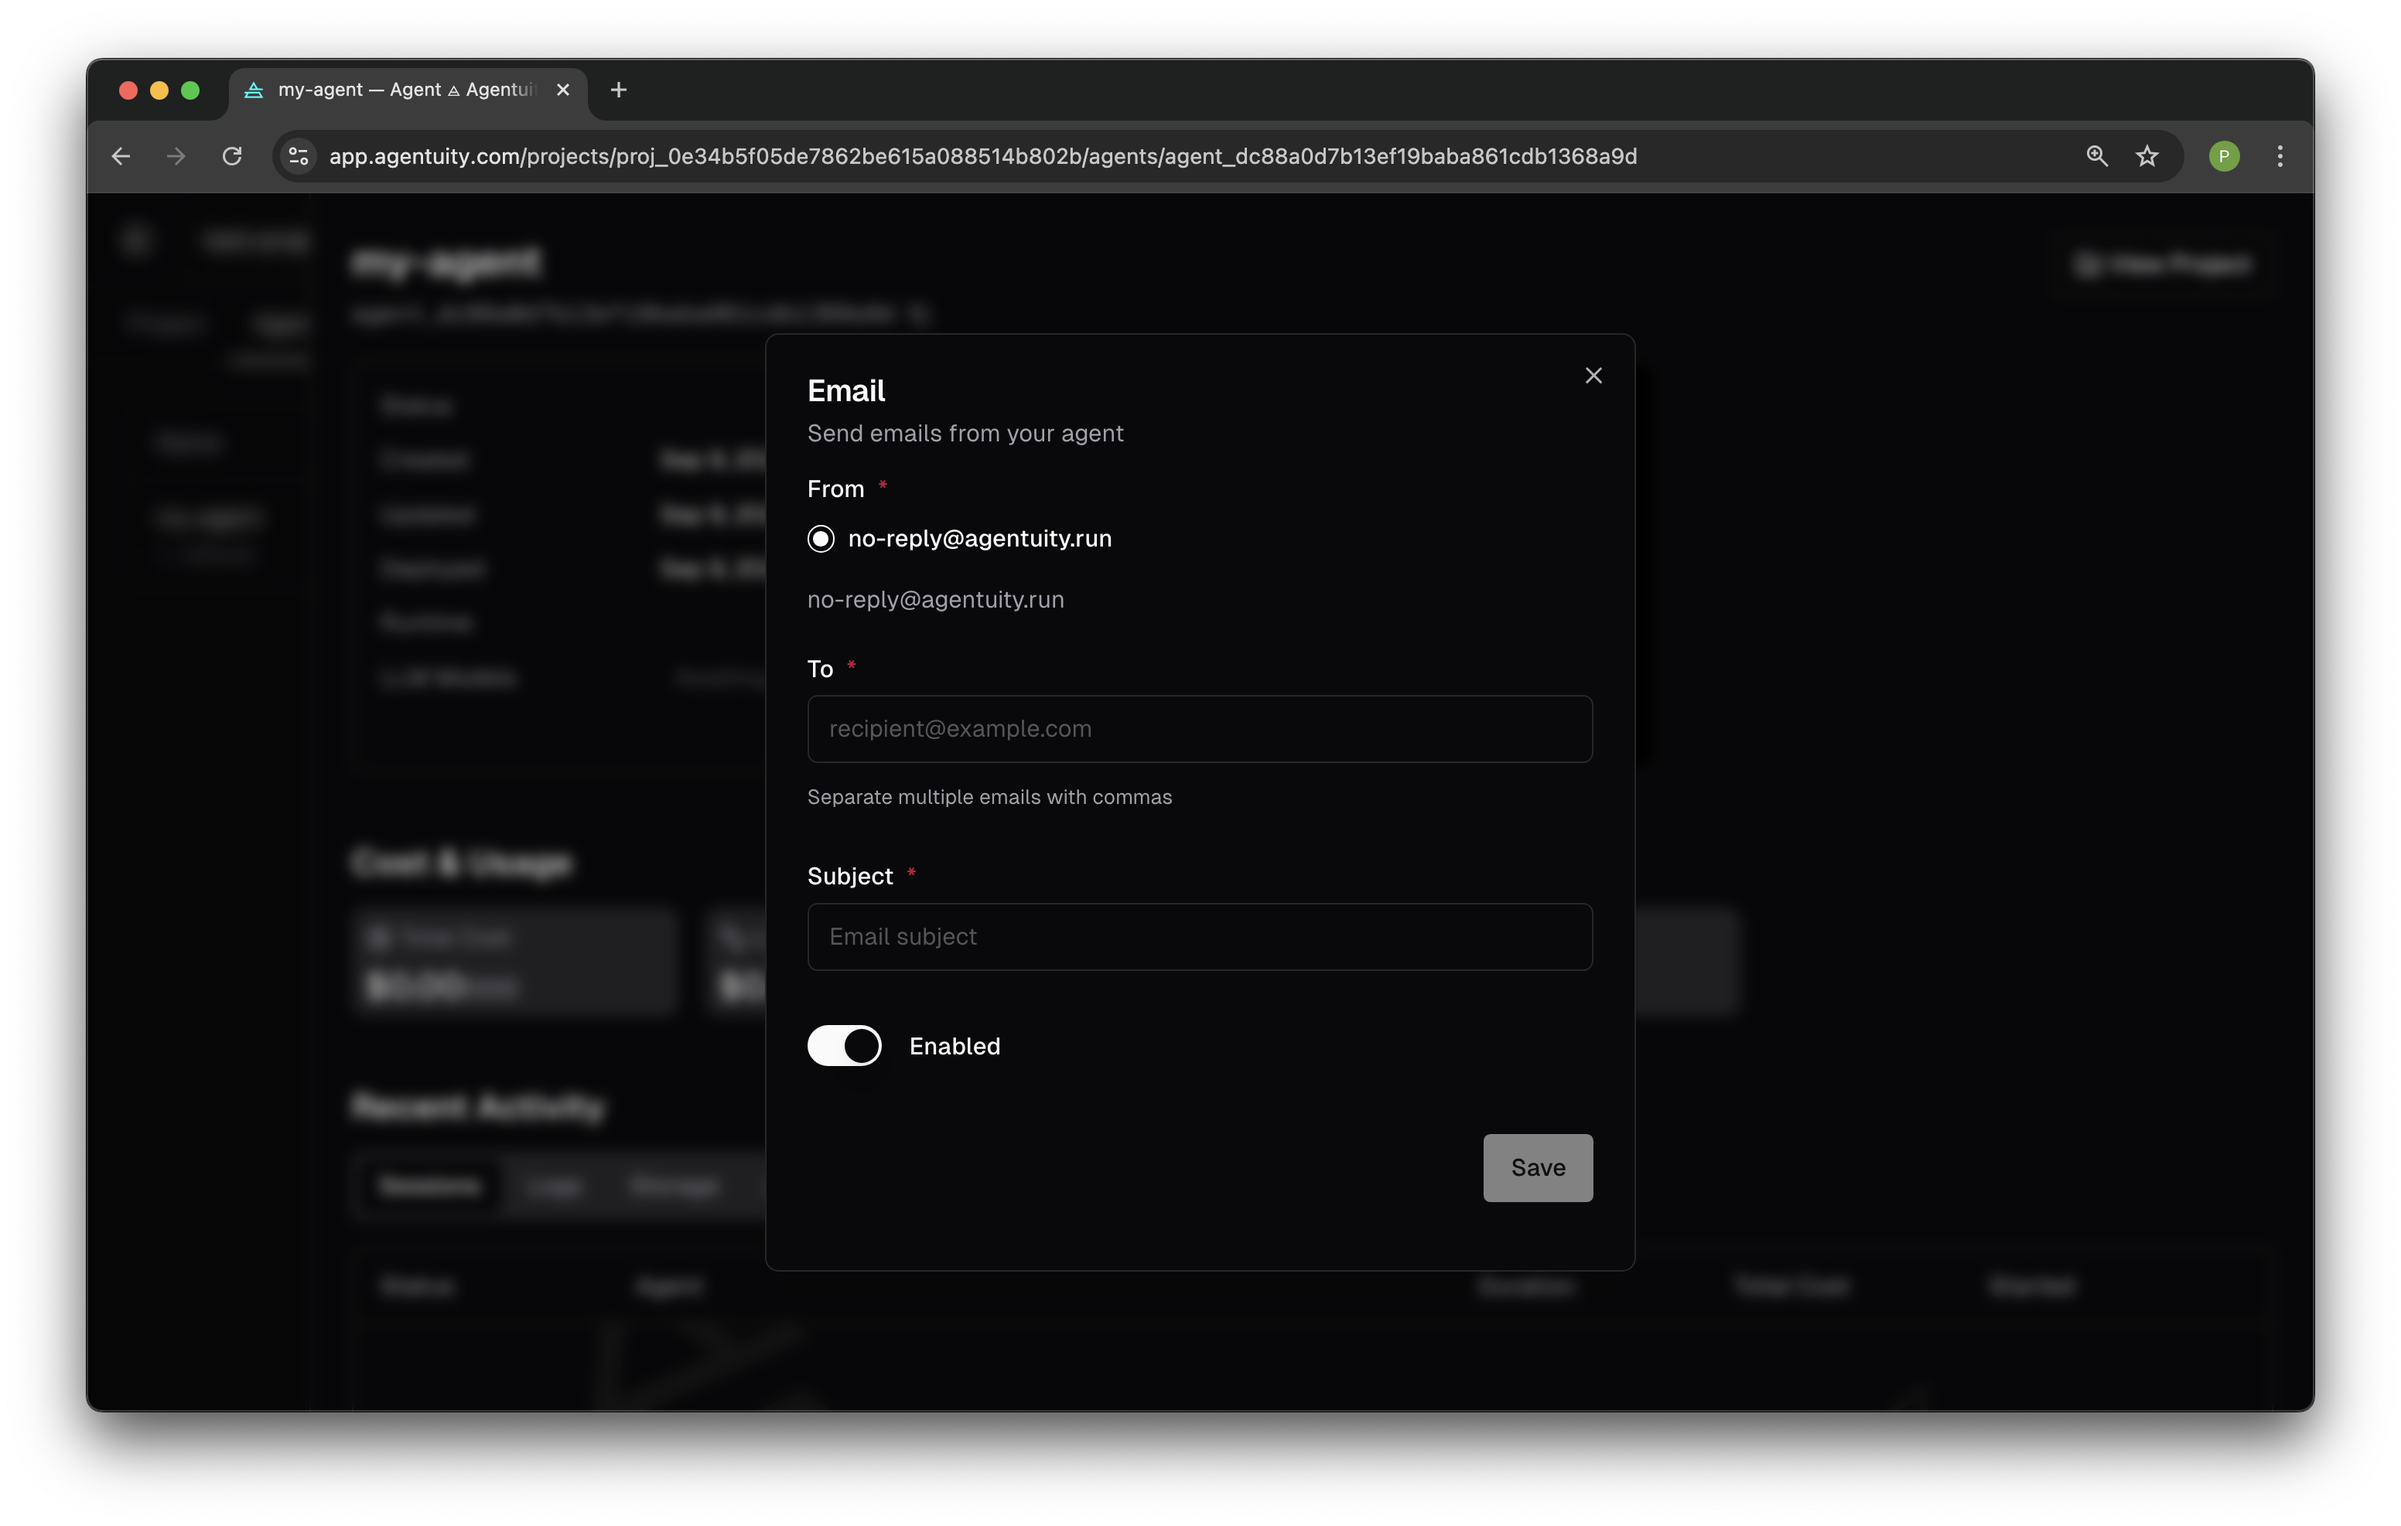
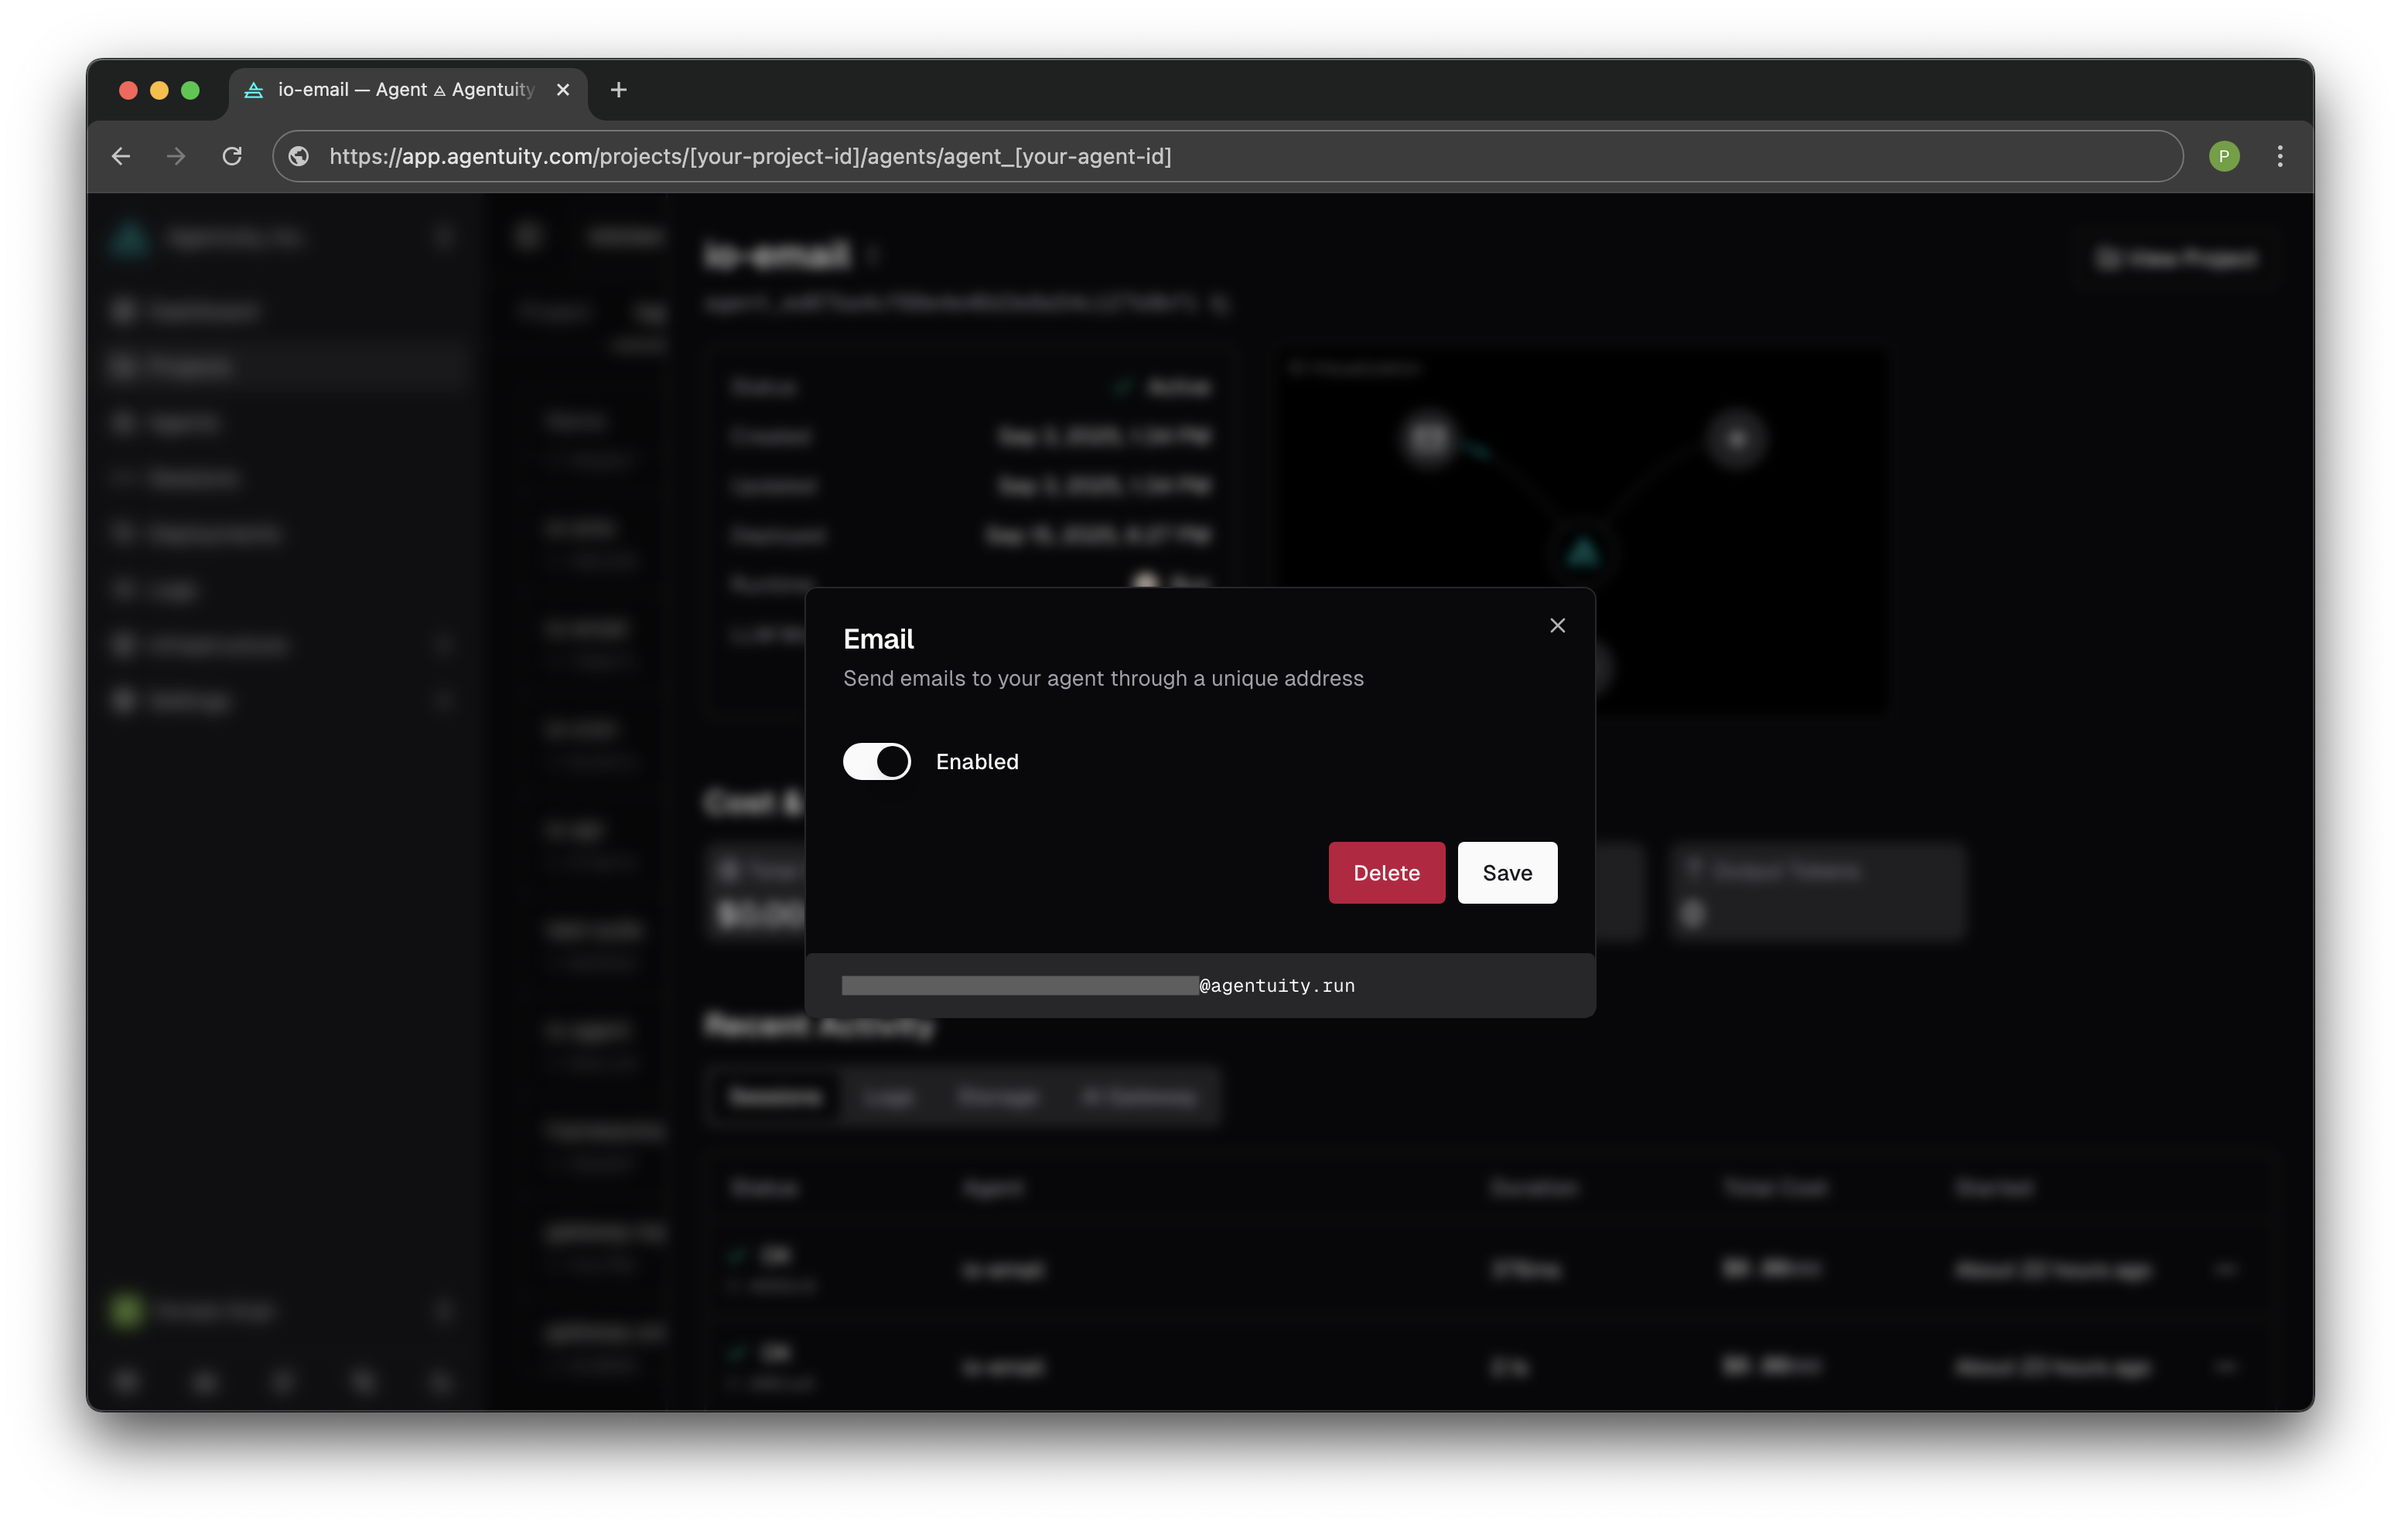
Update READMEs and screenshots

diff --git a/src/agents/io-email/README.md b/src/agents/io-email/README.md
@@ -1,60 +1,25 @@
 # Email Configuration
 
-Agents in Agentuity can receive and send emails. This example demonstrates outbound email functionality.
+Agents in Agentuity can receive and send emails. This example demonstrates inbound email functionality.
 
 ## Setup Instructions
 
-1. **Configure Email Recipients**
-   
-   In the Agentuity web console, navigate to your agent's IO settings (outbound side) and click on Email:
-   
+1. **Configure Email IO in Agentuity**
+
+   In the Agentuity web console, navigate to your agent's IO settings (inbound side) and click on Email:
+
    ![Agentuity Email configuration dialog](/.github/io-email/email-setup-1-config.png)
-   
-   Add one or more recipient email addresses in the "To" field. Separate multiple addresses with commas.
-   
-   > **Note:** Recipients and subject lines are currently configured through the Agentuity web console only, not via code.
 
-2. **Choose a Sender Address**
-   
-   You can send emails to multiple recipients simultaneously once connected.
-   
-   By default, emails are sent from `no-reply@agentuity.run`. This works immediately without any additional setup.
+   Once enabled, your agent receives a unique email address (based on its agent ID) that you can use to test this example.
 
-3. **Optional: Agent-Specific Sender Address**
-   
-   To use an agent-specific sender address, enable inbound email for your agent:
-   
-   ![Inbound email configuration showing unique agent address](/.github/io-email/email-setup-2-inbound.png)
-   
-   Once enabled, your agent receives a unique email address (based on its unique agent ID) that can also be used as the sender address for outbound emails:
+2. **Deploy The Project**
 
-   ![Outbound email configuration with a unique agent address](/.github/io-email/email-setup-3-agent-email.png)
+   Deploy the Kitchen Sink project to enable email functionality:
 
-4. **Test the Integration**
-   
-   Use the pre-set commands to test email sending:
-   - **Send Basic Email**: Tests plain text email delivery
-   - **Send HTML Email**: Tests HTML-formatted email with styling
+   ```bash
+   agentuity deploy
+   ```
 
-## Deployment Required for IO Features
+3. **Test the Integration**
 
-Once you complete the steps above, deploy the Kitchen Sink project:
-
-```bash
-agentuity deploy
-```
-
-Once deployed, you can test IO operations from DevMode using the agent's webhook endpoint.
-
-## How Email Sending Works
-
-This agent uses a self-webhook pattern to enable email sending from DevMode:
-
-- **Before deployment**: You can test commands in DevMode, but actual email sending requires deploying the agent first.
-
-- **After deployment with email configured**: When you click a command in DevMode, the agent detects the manual trigger and calls its own webhook endpoint, which then sends the actual email to your configured recipients. You'll see a success message in DevMode *and* receive the email.
-
-## Learn More
-Check out our video tutorials:
-- [Demo video](https://youtu.be/X-HEUFH5C0Y) of an agent sending HTML emails
-- [Technical walkthrough](https://youtu.be/itDn6BAFNL0) covering email features and capabilities in Agentuity
+   Send an email to your agent's email address. The agent will receive it and send a reply back.

diff --git a/src/agents/io-sms/README.md b/src/agents/io-sms/README.md
@@ -1,6 +1,6 @@
 # SMS Configuration with Twilio
 
-Agents in Agentuity can receive and send SMS messages. This example demonstrates outbound SMS functionality.
+Agents in Agentuity can receive and send SMS messages. This example demonstrates inbound SMS functionality.
 
 ## Setup Instructions
 
@@ -16,48 +16,34 @@ Agents in Agentuity can receive and send SMS messages. This example demonstrates
    
    You'll need:
    - **Account SID**: Your unique account identifier
+   - **Account Auth Token**: Your Twilio account secret
    - **API SID**: Your Twilio API SID (create one in the API Keys section)
    - **API Secret**: Your Twilio API Secret (shown only when creating the API key)
    
    > **Important:** When creating an API key in Twilio, the secret is only shown once. Save it immediately - you won't be able to view it again in the API Keys section.
 
-3. **Configure SMS in Agentuity**
+3. **Configure SMS IO in Agentuity**
    
-   In the Agentuity web console, navigate to your agent's IO settings and click on SMS:
+   In the Agentuity web console, navigate to your agent's IO settings (inbound side) and click on SMS:
    
    ![Agentuity SMS configuration dialog](/.github/io-sms/sms-setup-2-agentuity-config.png)
    
    Enter your Twilio credentials:
    - Account SID
+   - Account Auth Token
    - API SID
    - API Secret
    
    Click **Validate** to verify your credentials, then **Save**.
 
-4. **Test the Integration**
-   
-   Send the "Send Basic SMS" command to your agent. The SMS will be sent from your Twilio phone number.
+4. **Deploy The Project**
 
-## Deployment Required for IO Features
+   Deploy the Kitchen Sink project to enable SMS functionality:
 
-Once you complete the steps above, deploy the Kitchen Sink project:
+   ```bash
+   agentuity deploy
+   ```
 
-```bash
-agentuity deploy
-```
+5. **Test the Integration**
 
-Once deployed, you can test IO operations from DevMode using the agent's webhook endpoint.
-
-## How SMS Sending Works
-
-This agent uses a self-webhook pattern to enable SMS sending from DevMode:
-
-- **Before deployment**: You can test commands in DevMode, but actual SMS sending requires deploying the agent first.
-
-- **After deployment with SMS configured**: When you click a command in DevMode, the agent detects the manual trigger and calls its own webhook endpoint, which then sends the actual SMS to your configured phone number. You'll see a success message in DevMode *and* receive the SMS.
-
-## Important Notes
-
-- **Sending Number**: Toll-free numbers require verification before they can send SMS. For easier setup, purchase a regular local number instead. Go to **Phone Numbers > Manage > Buy a number** in your Twilio console.
-- **Recipient Number(s)**: With a Twilio trial account, you can only send SMS to verified recipient numbers. Add them in **Phone Numbers > Manage > Verified** in your Twilio console.
-- **Phone Number Format**: Use international format (e.g., +12345678901)
+   Send a text message to your Twilio phone number. The agent will receive it and send a reply back.

diff --git a/README.md b/README.md
@@ -63,12 +63,12 @@ These are only needed for specific agent demonstrations:
 
 - **Object Storage bucket**: Only required for the "Object Store" agent demo. Create via the Agentuity Console from the *Infrastructure* section.
 - **`OPENAI_API_KEY`**: Only required for the "Bring-Your-Own-Token" agent demo. Set in your `.env` file locally.
-- **`COMPOSIO_API_KEY`**: Only required for the "Composio" agent demo. Sign up at composio.dev to access hundreds of tool integrations. Set in your `.env` file locally.
+- **`COMPOSIO_API_KEY`**: Only required for the "Composio" agent demo. Sign up at [composio.dev](https://composio.dev/) to access hundreds of tool integrations. Set in your `.env` file locally.
 - **`DISCORD_WEBHOOK_URL`**: Only required for the "Discord" agent demo. Create a Discord webhook URL in your server's channel settings. Set in your `.env` file locally.
 - **`SLACK_SIGNING_SECRET`** and **`SLACK_BOT_TOKEN`**: Only required for the "Slack" agent demo. Create a Slack app with bot permissions and install it in your workspace. Set in your `.env` file locally.
 - **Twilio phone number**: Only required for the "SMS IO" agent demo. Requires a Twilio account with a verified phone number (not included in free trials).
 
-**Note**: Most agents work without this additional setup.
+**Note**: Most agents work without this additional setup. For agents requiring setup, see their individual READMEs for detailed instructions.
 
 ## Available Agents
 
@@ -117,22 +117,19 @@ Each agent explains what it's doing as it runs, making it easy to understand the
 
 Each agent suggests prompts when you first select it — just click to try them!
 
-## Fork & Deploy Your Own
+## Deploy Your Own
 
 Ready to customize the Kitchen Sink or use it as a starting point? Here's how to get started:
 
-1. **Fork the repository** on GitHub
-2. **Clone your fork**
+1. **Deploy to your account** using the "*Deploy w/ Agentuity*" button at the top of this README
+2. **Clone the repository**
 ```bash
-git clone https://github.com/YOUR-USERNAME/kitchen-sink-ts.git
+git clone https://github.com/agentuity/kitchen-sink-ts.git
 cd kitchen-sink-ts
 ```
 3. **Customize agents** or add new ones in `src/agents/`.
 4. **Test locally** with `agentuity dev`.
-5. **Deploy to Agentuity Cloud**
-```bash
-agentuity deploy
-```
+5. **Deploy your changes** with `agentuity deploy`
 6. **Set any required secrets** (if needed)
 ```bash
 agentuity env set --secret OPENAI_API_KEY your-key-here

diff --git a/src/agents/example-discord/README.md b/src/agents/example-discord/README.md
@@ -39,9 +39,22 @@
    - Send JSON event data to your agent
    - Check your Discord channel for the sample notification
 
-## Example Usage
+## What This Agent Does
 
-This agent accepts any JSON payload and uses an LLM to create Discord notifications.
+This agent demonstrates Discord webhook message execution. It:
+
+1. **Accepts JSON event data** and analyzes it with an AI model
+2. **Creates rich Discord notifications** using embeds with custom styling
+3. **Sends formatted messages** to your Discord channel via webhook
+
+### Current Customizations
+
+The agent currently sends messages with:
+- **Custom username**: "Agentuity Agent"
+- **Rich embed** with title, description, and AI-generated summary
+- **Brand color**: Discord's blurple (`0x5865f2`)
+- **Footer**: "Powered by Agentuity"
+- **Timestamp**: Current time
 
 ### Sample Event Data
 
@@ -55,6 +68,33 @@ This agent accepts any JSON payload and uses an LLM to create Discord notificati
 }
 ```
 
-## Security Note
+## Discord Message Structure
 
-Never commit your webhook URL to version control. Always use environment variables to store sensitive configuration.
+When this agent sends data via webhook, Discord creates [Message Objects](https://discord.com/developers/docs/resources/message) with these auto-generated fields:
+
+- `id` - Unique message identifier
+- `channel_id` - Target channel ID
+- `webhook_id` - Your webhook's ID
+- `author` - Webhook user object (shows your custom username/avatar)
+- `timestamp` - When the message was sent
+- `type` - Message type (always `0` for simple webhook messages)
+
+## Message Customization Options
+
+You can modify the agent code to customize the webhook payload:
+
+**Message Content:**
+- `content` - Plain text message content (string)
+- `embeds` - Array of embed objects for rich formatting (currently used by this agent)
+- `tts` - Text-to-speech message (boolean)
+
+**Webhook Overrides:**
+- `username` - Override the webhook's default name
+- `avatar_url` - Override the webhook's avatar
+
+**Mentions (use these formats in `content` or embed descriptions):**
+- `@everyone` or `@here` - Mention everyone/online users
+- `<@user_id>` - Mention specific user (e.g., `<@123456789>`)
+- `<@&role_id>` - Mention specific role (e.g., `<@&987654321>`)
+- `<#channel_id>` - Link to channel (e.g., `<#456789123>`)
+- `allowed_mentions` - Object to control which mentions trigger notifications
